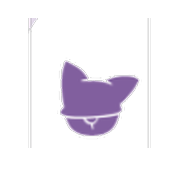
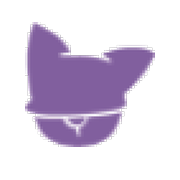
fix(brand): 标签狐狸头与 header 横版 wordmark 分离 (#10)
Header 恢复 logo-ty（狐狸+英文）原尺寸；浏览器标签与 apple-touch
单独使用用户提供的狐狸头 favicon，透明留白居中。

Changed region(s): [[0.1389, 0.0833, 0.8611, 0.8333]]

diff --git a/docs/js/app.offline.bundle.js b/docs/js/app.offline.bundle.js
@@ -1,6 +1,6 @@
 /* GENERATED FILE — source: docs/js/app.js + docs/data/content.json */
 globalThis.__AI_BRIEF_EMBEDDED_CONTENT__={"$schema":"./content.schema.json","version":"5.24.0","decisionSchemaVersion":2,"ssot":"web-decision-v5.24-rich-type","updated":"2026-07-30","meta":{"title":"天元 · AI 立项决策台","from":"","to":"","subtitle":"本场 Goal：选项目 · 定预算 · 定 Owner · 授权止损","logo":"assets/logo.png","brand":"#EBE6EF","roleLine":"决策稿 · 未批不开发 · 人在环","footerLeft":"本机会议草稿 · 复制到飞书 / 邮件并确认后留痕","footerRight":""},"tabs":[{"id":"t1","no":"1","title":"今日拍板","layout":"fill","blocks":[{"id":"t1.kpi","type":"kv-table","rows":[{"key":"总结","variant":"info","html":"各部门访谈已完成，建议把 <b>客服 Agent</b>、<b>供应链备案识别</b>作为 2 个有前置条件的立项候选；<b>未批不开发</b>"},{"key":"建议","variant":"ok","html":"两项均只做人机协同：客服由人确认后回复；备案由机器标差异、业务人员终审"},{"key":"请勾","variant":"info","html":"本场只拍 4 件事：① 选哪些项目；② A 启动 / B 认方向 / C 不立；③ 两项合计工具预算与止损线；④ Owner 具名并授权超线 <b>立即停扩</b>"},{"key":"钱","variant":"warn","html":"两项合计工具目标预算约 <b>7000 元</b>（不含 IT 人力）· <b>首月止损 5000 元</b> · <b>全期硬止损 10000 元</b>；10000 是必须停下复核的上限，不是默认预算"},{"key":"工期","variant":"default","html":"每个项目分别过门禁：<span class=\"flow-step\"><b>前置齐备</b>（业务同意 + Owner + 样本口径 + 费用）</span><span class=\"flow-arrow\" aria-hidden=\"true\">→</span><span class=\"flow-step\"><b>约 4 周内部演示</b></span><span class=\"flow-arrow\" aria-hidden=\"true\">→</span><span class=\"flow-step\"><b>约 4 周内部小试用</b></span> · 任一项不过，只停该项"}]},{"id":"t1.swap","type":"callout","variant":"brand","html":"<b>本场 Goal：</b>形成可执行的项目清单、预算上限、Owner 与停扩权；散会后可以直接留下责任记录"},{"id":"t1.scope","type":"callout","variant":"brand","html":"<b>本场不做：</b>承诺上线日 · 代业务定验收阈值 · 把 10000 元当默认预算 · 用页面勾选代替飞书/邮件确认"}]},{"id":"t2","no":"2","title":"项目取舍","layout":"stack","blocks":[{"id":"t2.chart","type":"mermaid","label":"主开：客服 Agent / 备案识别 · 后置：仓储 / 私域 · 不开：设计","compactItems":[{"label":"主开","text":"客服 Agent / 供应链备案识别","tone":"ok"},{"label":"产出","text":"可周报 / 可停损","tone":"info"},{"label":"后置","text":"仓储 / 私域","tone":"warn"},{"label":"不开","text":"设计","tone":"danger"}],"source":"flowchart TB\n  subgraph MAIN[本期主开]\n    K[客服 Agent<br/>统一答法 · 人确认]\n    S[供应链 备案识别<br/>机标差异 · 人终审]\n  end\n  subgraph HOLD[后置 · 有条件再开]\n    W[仓储<br/>先数据治理 / BI]\n    P[私域<br/>RPA + BI 优先]\n  end\n  subgraph NO[本期不开]\n    D[设计<br/>已自驱]\n  end\n  K --> OUT[可周报 · 可停损]\n  S --> OUT\n  style K fill:#D9F5D6,stroke:#2F9E55\n  style S fill:#D9F5D6,stroke:#2F9E55\n  style W fill:#FFF6D6,stroke:#D4A017\n  style P fill:#FFF6D6,stroke:#D4A017\n  style D fill:#FEE8E6,stroke:#E05555\n  style OUT fill:#E3F0FF,stroke:#3D87D6"},{"id":"t2.dept","type":"detail-card","title":"各部门：为什么开 · 为什么不开 · 原因","subtitle":"展开后保留可读决策缩略 · 详情区上下滑看 6 部门","defaultOpen":false,"headers":["部门","为什么开","为什么不开","原因"],"rows":[{"sector":"客服","whyOpen":"外包多、标准散；需要统一答法与可质培","whyNot":"不做自动代回、不首期嵌桌面","reason":"先立 Agent：检索推荐 + 人确认发出；标准能管、可停损"},{"sector":"供应链","whyOpen":"备案材料核验重、易漏、重复劳动多","whyNot":"不做对账第二看板、不做智能排产","reason":"先立备案识别：机器标差异 + 人终审；对账归 BI"},{"sector":"仓储","whyOpen":"—","whyNot":"有 AI 智能化助手需求，想基于历史数据做智能化、提醒化","reason":"先数据治理，BI 搞定后再智能化"},{"sector":"私域","whyOpen":"—","whyNot":"不抢两项主开资源","reason":"RPA 和 BI 的需求大"},{"sector":"设计","whyOpen":"—","whyNot":"已自驱用 AI 出图","reason":"本期不开，不占 FDE 人日"},{"sector":"对账/数仓","whyOpen":"—","whyNot":"不宜再建第二套看板","reason":"归 BI；需要时 FDE 交 1 页需求摘要"}]}]},{"id":"t3","no":"3","title":"交付边界","layout":"fill","blocks":[{"id":"t3.chart","type":"do-dont","label":"两项候选 · 共同交付边界","dontTitle":"不做","doTitle":"做","dont":["客服自动代回客户","备案自动过审或替人终审","重建 BI 对账看板","未定义样本口径就承诺准确率"],"do":["客服：统一知识库 + 检索推荐 + 人确认发出","备案：材料差异标注 + 证据定位 + 人终审","每项独立 Owner、样本、门禁和停扩记录","只收集完成评测所必需的数据，并保留人工复核"]}]},{"id":"t4","no":"4","title":"阶段门禁","layout":"split","blocks":[{"id":"t4.chart","type":"mermaid","slot":"main","label":"未齐不开发 · 约 4 周演示 + 约 4 周试用 · 不过即停扩","source":"flowchart LR\n  S0[① 先齐前置<br/>未齐=不开开发] --> S1[② 约4周<br/>内部演示]\n  S1 -->|过| S2[③ 约4周<br/>内部小试用]\n  S1 -->|不过| BACK[回前置<br/>停扩重测]\n  S2 -->|过| OK[可汇报<br/>不代回客户]\n  S2 -->|不过| STOP[停扩<br/>不上报采用]\n  style S0 fill:#FFF6D6,stroke:#D4A017,color:#111\n  style BACK fill:#FEE8E6,stroke:#E05555,color:#111\n  style S1 fill:#E3F0FF,stroke:#3D87D6,color:#111\n  style S2 fill:#E3F0FF,stroke:#3D87D6,color:#111\n  style OK fill:#D9F5D6,stroke:#2F9E55,color:#111\n  style STOP fill:#FEE8E6,stroke:#E05555,color:#111"},{"id":"t4.dod","type":"gate-table","slot":"side","headers":["阶段","过关标准"],"rows":[{"gate":"① 前置","html":"<div class='line'>每个项目分别齐备才开开发：</div><div class='line'>· <b>业务书面同意</b>（口头 ≤3 工作日补）</div><div class='line'>· <b>Owner + 备用人具名</b></div><div class='line'>· <b>样本、判定口径、数据边界确认</b></div><div class='line'>· 两项合计预算与止损确认（7000 / 5k / 10k）</div>"},{"gate":"② 演示","html":"<div class='line'>约 4 周可内部演示：</div><div class='line'>· 客服：话术可检索；抽 20 题，≥14 题过</div><div class='line'>· 备案：差异项可定位到证据；阈值由业务样本签字后锁定</div><div class='line'>· <b>0 次自动代回 / 0 次自动过审</b></div><div class='line'>· 哪项不过，只停哪项并回前置</div>"},{"gate":"③ 试用","html":"<div class='line'>约 4 周内部小试用：</div><div class='line'>· 客服：≥3 坐席连续 2 周，有使用与反馈</div><div class='line'>· 备案：至少 1 个真实批次跟跑，业务人员终审</div><div class='line'>· 仍 <b>0 自动代回 / 0 自动过审</b> · 结果可追溯</div><div class='line'>· Owner 缺位或样本变更 → 该项重测</div>"}]}]},{"id":"t5","no":"5","title":"预算止损","layout":"split","blocks":[{"id":"t5.chart","type":"mermaid","slot":"main","label":"7000 目标 · 5000 首月 · 10000 硬止损","source":"flowchart TB\n  Q{您怎么批}\n  Q --> A[A 立 · 同意启动<br/>前置齐了再开发]\n  Q --> B[B 立 · 先认方向<br/>费用批完再动手]\n  Q --> C[C 不立<br/>写入周报说明]\n  A --> A1[按止损线花钱<br/>超线即停]\n  B --> B1[不开发不烧工具费<br/>批完再开工]\n  C --> C1[不立项 · 不排期]\n  style A fill:#D9F5D6,stroke:#2F9E55,color:#111\n  style B fill:#E3F0FF,stroke:#3D87D6,color:#111\n  style C fill:#FEE8E6,stroke:#E05555,color:#111\n  style A1 fill:#D9F5D6,stroke:#2F9E55,color:#111\n  style B1 fill:#E3F0FF,stroke:#3D87D6,color:#111\n  style C1 fill:#FEE8E6,stroke:#E05555,color:#111\n"},{"id":"t5.money","type":"kv-table","slot":"side","keyWidth":"wide","rows":[{"key":"花什么钱","html":"两项合计工具目标预算约 <b>7000 元</b>：约 3 个月 Codex AI 账户 + OCR 文档识别账户 + 云服务器；<b>不含 IT 人力</b>"},{"key":"止损线","html":"<b>首月 5000 元</b> · <b>全期硬止损 10000 元</b>。7000 是目标预算；10000 是必须停止并复核的上限，不是可直接支出的预算"},{"key":"会后 48 小时","html":"会后 <b>2 个自然日内</b>（逢节假日顺延到下个工作日）把责任人钉死、把要开通的账户清单钉死；到点还没对齐 → <b>先不开发、不烧工具费</b>，只做书面准备"},{"key":"超线怎么办","html":"当场授权：一超止损线，执行方 <b>立即停扩</b>，飞书/邮件同步您；是否加预算由您重新确认"},{"key":"人工怎么算","html":"<b>IT 人工成本不算进上述 7000</b>；工具费与人日在周报里分开写，避免混在一起对不上账"}]}]},{"id":"t6","no":"6","title":"当场确认","layout":"fill","blocks":[{"id":"t6.check","type":"check-table","headers":["#","本场请您确认","勾选"],"rows":[{"no":"1A","checked":false,"html":"<b>客服 Agent</b>：独立选择本场路径","projectBlurb":"统一知识库 + 检索推荐 + 人确认发出 · 不自动代回","projectId":"agent","projectLabel":"客服 Agent","pathOptions":["A","B","C"],"pathValue":"","tier":"must","rowId":"t6-agent-path"},{"no":"1B","checked":false,"html":"<b>供应链备案识别</b>：独立选择本场路径","projectBlurb":"材料差异标注 + 证据定位 + 人终审 · 不代过审","projectId":"filing","projectLabel":"供应链备案识别","pathOptions":["A","B","C"],"pathValue":"","tier":"must","rowId":"t6-filing-path"},{"no":"2","checked":false,"html":"共享工具费用与止损（A / B 至少一项时必确认，可改）","kind":"fee","feeFields":{"total":"7000","monthCap":"5000","allCap":"10000","otherNote":""},"tier":"must","rowId":"t6-fee"},{"no":"3A","checked":false,"html":"<b>客服 Agent Owner</b>（选 A / B 时至少 1 人 · 业务侧具名）","kind":"owner","projectId":"agent","projectLabel":"客服 Agent","owners":[{"name":"","dept":"","scope":""},{"name":"","dept":"","scope":""},{"name":"","dept":"","scope":""}],"tier":"must","rowId":"t6-agent-owner"},{"no":"3B","checked":false,"html":"<b>供应链备案识别 Owner</b>（选 A / B 时至少 1 人 · 业务侧具名）","kind":"owner","projectId":"filing","projectLabel":"供应链备案识别","owners":[{"name":"","dept":"","scope":""},{"name":"","dept":"","scope":""},{"name":"","dept":"","scope":""}],"tier":"must","rowId":"t6-filing-owner"},{"no":"4","checked":false,"html":"会后 2 天钉死账户清单与对接人（未齐 → 不开发、不烧工具费）","tier":"later","rowId":"t6-accounts"},{"no":"5","checked":false,"html":"授权超止损 <b>立即停扩</b>（飞书/邮件同步您 · A/B 必勾）","kind":"stop-authority","tier":"must","rowId":"t6-stop-authority"},{"no":"6","checked":false,"html":"书面「出问题怎么办」齐全（人在环、回退、停扩责任）","tier":"later","rowId":"t6-incident-plan"}]},{"id":"t6.gate","type":"callout","variant":"warn","html":"<b>散会最低：</b>两项目分别选 A / B / C；每个 A / B 项目补齐自己的 Owner，并共同确认费用止损与超线停扩。全部 C 时无需填费用和 Owner。"},{"id":"t6.bound","type":"callout","variant":"brand","html":"<b>留痕：</b>可复制结论或下载带 SHA-256 哈希的 JSON 凭证；两者仍是本机草稿，贴入飞书/邮件并确认后才生效"}]},{"id":"t7","no":"7","title":"会后责任","layout":"fill","blocks":[{"id":"t7.timeline","type":"gate-table","headers":["时间","要完成什么"],"rows":[{"gate":"会后 2 天","html":"<div class='line'>钉死账户清单 + 对接人</div><div class='line'>未齐 → <b>不开发、不烧工具费</b></div>"},{"gate":"会后 3 天","html":"<div class='line'>业务 <b>书面同意</b>补齐</div><div class='line'>未补 → 只记意向，不排开发</div>"},{"gate":"每周一行","html":"<div class='line'>前置 / 工具费 / 止损线 / 人力是否被挤占</div>"},{"gate":"一超止损","html":"<div class='line'>执行方 <b>立即停扩</b> · 飞书/邮件同步您</div>"}]},{"id":"t7.path","type":"gate-table","headers":["路径","会后怎么走"],"rows":[{"gate":"A 启动","html":"<div class='line'>前置齐了再开发 · 按止损线开通 · 超线即停</div>"},{"gate":"B 方向","html":"<div class='line'>费用批完前不开发、不烧工具费</div>"},{"gate":"C 不立","html":"<div class='line'>「不立+原因」进周报 · 不排期</div>"}]},{"id":"t7.pm","type":"callout","variant":"ok","html":"<b>项目经理盯 4 件事：</b> ① 前置是否齐　② 钱是否在线内 ③ 负责人是否在位　④ 该停有没有停 内容 → 业务负责人；工具/停扩 → 执行方并同步您"}]}],"publishStamp":"1785348966720"};
[2 lines of base64/hex data omitted]
 (()=>{var bn=Object.freeze({A:"A 同意启动",B:"B 先认方向",C:"C 不立"}),ia=1;function wt(a){return String(a??"").trim()}function Cn(a){return wt(a).replace(/<br\s*\/?>/gi," ").replace(/<[^>]+>/g,"").replace(/&nbsp;/gi," ").replace(/&amp;/gi,"&").replace(/&lt;/gi,"<").replace(/&gt;/gi,">").replace(/\s+/g," ").trim()}function mn(a){let i=wt(a).replace(/[,\s￥¥元]/g,"");if(!i)return NaN;let u=Number(i);return Number.isFinite(u)?u:NaN}function tn(a){return a?Array.isArray(a.owners)?a.owners.filter(i=>i&&wt(i.name)):a.ownerFields&&wt(a.ownerFields.name)?[a.ownerFields]:[]:[]}function la(a){return wt(a.projectLabel||a.projectId||Cn(a.html)||a.no)}function ca(a){if(!a||!a.feeFields)return{valid:!1,reason:"未设置费用与止损"};let i=a.feeFields,u=mn(i.total),b=mn(i.monthCap),C=mn(i.allCap);return[u,b,C].every(m=>Number.isFinite(m)&&m>0)?b>C?{valid:!1,reason:"首月止损不能高于全期止损"}:u>C?{valid:!1,reason:"目标预算不能高于全期止损"}:{valid:!0,total:u,monthCap:b,allCap:C}:{valid:!1,reason:"费用或止损线不是有效正数"}}function je(a){let i=Array.isArray(a&&a.rows)?a.rows:[],b=i.filter(O=>O&&O.projectId&&Array.isArray(O.pathOptions)&&O.pathOptions.length).map(O=>({projectId:wt(O.projectId),projectLabel:la(O),path:wt(O.pathValue),pathLabel:bn[O.pathValue]||"未选",row:O})),C=b.filter(O=>O.path==="A"||O.path==="B"),m=[];b.forEach(O=>{O.path||m.push(O.projectLabel+"路径")}),b.length||m.push("项目级路径");let h=i.find(O=>O&&(O.kind==="fee"||O.feeFields)),j=i.find(O=>O&&(O.kind==="stop-authority"||String(O.no)==="5")),v=i.filter(O=>O&&(O.kind==="owner"||Array.isArray(O.owners)||O.ownerFields));if(C.length){C.forEach(lt=>{let g=v.find(S=>wt(S.projectId)===lt.projectId);(!g||!g.checked||!tn(g).length)&&m.push(lt.projectLabel+" Owner")});let O=ca(h);!h||!h.checked?m.push("费用与止损确认"):O.valid||m.push(O.reason),(!j||!j.checked)&&m.push("超线停扩授权")}let R=i.filter(O=>O&&(O.checked||Array.isArray(O.pathOptions)&&O.pathValue)).length,k=b.filter(O=>O.path),G=b.length>0&&k.length===b.length,F=G&&b.every(O=>O.path==="C"),X=G&&m.length===0,L=b.length?b.map(O=>`${O.projectLabel} ${O.path||"未选"}`).join(" · "):"项目路径未配置";return{rows:i,total:i.length,done:R,decisions:b,activeDecisions:C,ownerRows:v,feeRow:h,stopRow:j,missing:[...new Set(m)],allPathsChosen:G,allC:F,isMinOk:X,path:b.length===1?b[0].path:"",pathLab:L}}function un(a){return a===null||typeof a!="object"?JSON.stringify(a):Array.isArray(a)?`[${a.map(un).join(",")}]`:`{${Object.keys(a).sort().map(u=>`${JSON.stringify(u)}:${un(a[u])}`).join(",")}}`}function re(a,i){return a>>>i|a<<32-i}function fn(a){let i=new TextEncoder().encode(String(a)),u=i.length*8,b=Math.ceil((i.length+9)/64)*64,C=new Uint8Array(b);C.set(i),C[i.length]=128;let m=new DataView(C.buffer);m.setUint32(b-8,Math.floor(u/4294967296),!1),m.setUint32(b-4,u>>>0,!1);let h=new Uint32Array([1779033703,3144134277,1013904242,2773480762,1359893119,2600822924,528734635,1541459225]),j=new Uint32Array([1116352408,1899447441,3049323471,3921009573,961987163,1508970993,2453635748,2870763221,3624381080,310598401,607225278,1426881987,1925078388,2162078206,2614888103,3248222580,3835390401,4022224774,264347078,604807628,770255983,1249150122,1555081692,1996064986,2554220882,2821834349,2952996808,3210313671,3336571891,3584528711,113926993,338241895,666307205,773529912,1294757372,1396182291,1695183700,1986661051,2177026350,2456956037,2730485921,2820302411,3259730800,3345764771,3516065817,3600352804,4094571909,275423344,430227734,506948616,659060556,883997877,958139571,1322822218,1537002063,1747873779,1955562222,2024104815,2227730452,2361852424,2428436474,2756734187,3204031479,3329325298]),v=new Uint32Array(64);for(let R=0;R<b;R+=64){for(let S=0;S<16;S+=1)v[S]=m.getUint32(R+S*4,!1);for(let S=16;S<64;S+=1){let N=v[S-15],q=v[S-2],ct=re(N,7)^re(N,18)^N>>>3,_=re(q,17)^re(q,19)^q>>>10;v[S]=v[S-16]+ct+v[S-7]+_>>>0}let[k,G,F,X,L,O,lt,g]=h;for(let S=0;S<64;S+=1){let N=re(L,6)^re(L,11)^re(L,25),q=L&O^~L&lt,ct=g+N+q+j[S]+v[S]>>>0,_=re(k,2)^re(k,13)^re(k,22),B=k&G^k&F^G&F,D=_+B>>>0;g=lt,lt=O,O=L,L=X+ct>>>0,X=F,F=G,G=k,k=ct+D>>>0}h[0]=h[0]+k>>>0,h[1]=h[1]+G>>>0,h[2]=h[2]+F>>>0,h[3]=h[3]+X>>>0,h[4]=h[4]+L>>>0,h[5]=h[5]+O>>>0,h[6]=h[6]+lt>>>0,h[7]=h[7]+g>>>0}return[...h].map(R=>R.toString(16).padStart(8,"0")).join("")}function On(a){return tn(a).map(i=>({name:wt(i.name),dept:wt(i.dept),scope:wt(i.scope||i.backup)}))}function gn(a,i={}){let u=je(a),b=i.generatedAt||new Date().toISOString(),C={};u.ownerRows.forEach(v=>{v.projectId&&(C[v.projectId]=On(v))});let m=u.feeRow&&u.feeRow.feeFields,h={receiptVersion:ia,kind:"ai-project-decision-draft",generatedAt:b,contentVersion:wt(i.contentVersion),decisionSchemaVersion:Number(i.decisionSchemaVersion||1),sourceStamp:wt(i.sourceStamp),localDraft:!0,projects:u.decisions.map(v=>({projectId:v.projectId,projectLabel:v.projectLabel,path:v.path||null,pathLabel:v.path?bn[v.path]||v.path:null,owners:C[v.projectId]||[]})),fees:m?{total:wt(m.total),monthCap:wt(m.monthCap),allCap:wt(m.allCap),otherNote:wt(m.otherNote),confirmed:!!u.feeRow.checked}:null,stopAuthorityConfirmed:!!(u.stopRow&&u.stopRow.checked),minimumReady:u.isMinOk,missing:u.missing,acknowledgements:u.rows.filter(v=>!v.projectId&&!v.feeFields).map(v=>({rowId:wt(v.rowId),no:wt(v.no),label:Cn(v.html),checked:!!v.checked}))},j=fn(un(h));return{...h,integrity:{algorithm:"SHA-256",canonicalization:"sorted-key-json-v1",digest:j}}}function In(a){if(!a||!a.integrity||a.integrity.algorithm!=="SHA-256")return!1;let i={...a},u=i.integrity.digest;return delete i.integrity,fn(un(i))===u}function Rn(a,i={}){let u=je(a),b=i.receipt||gn(a,i),C=new Date(b.generatedAt),h=["【AI 赋能立项 · 本场结论】",`时间：${Number.isNaN(C.getTime())?b.generatedAt:C.toLocaleString("zh-CN",{hour12:!1})}`];u.decisions.forEach(k=>{h.push(`项目：${k.projectLabel} · 路径：${k.path?bn[k.path]||k.path:"未选"}`);let G=u.ownerRows.find(X=>wt(X.projectId)===k.projectId),F=On(G);h.push(`Owner：${F.length?F.map(X=>`${X.name}${X.dept?" / "+X.dept:""}${X.scope?" / "+X.scope:""}`).join("；"):"（未填）"}`)}),b.fees&&h.push(`费用口径：目标 ${b.fees.total||"—"} 元 · 首月止损 ${b.fees.monthCap||"—"} 元 · 全期止损 ${b.fees.allCap||"—"} 元${b.fees.otherNote?" · "+b.fees.otherNote:""}`),h.push(`超线停扩授权：${b.stopAuthorityConfirmed?"已确认":"未确认"}`),h.push(u.isMinOk?"散会最低要求：已齐":`散会最低要求：未齐 · 还缺 ${u.missing.join(" · ")||"项目级路径"}`);let j=u.decisions.filter(k=>k.path==="A"),v=u.decisions.filter(k=>k.path==="B"),R=u.decisions.filter(k=>k.path==="C");return j.length&&h.push(`A 路径会后：${j.map(k=>k.projectLabel).join("、")} 按门禁与止损线启动`),v.length&&h.push(`B 路径会后：${v.map(k=>k.projectLabel).join("、")} 只补前置，未批不开发`),R.length&&h.push(`C 路径会后：${R.map(k=>k.projectLabel).join("、")} 记录不立原因，不排期`),h.push("本场边界：不承诺立刻上线 · 不自动代回客户 · 金额以确认的止损线为准"),h.push(`凭证哈希（SHA-256）：${b.integrity.digest}`),h.push("— 本机会议草稿：贴入飞书 / 邮件并由相关人确认后才构成正式留痕 —"),h.join(`
 `)}function $n(a,i){(i==null||i>a.length)&&(i=a.length);for(var u=0,b=Array(i);u<i;u++)b[u]=a[u];return b}function da(a){if(Array.isArray(a))return a}function ua(a,i){var u=a==null?null:typeof Symbol<"u"&&a[Symbol.iterator]||a["@@iterator"];if(u!=null){var b,C,m,h,j=[],v=!0,R=!1;try{if(m=(u=u.call(a)).next,i!==0)for(;!(v=(b=m.call(u)).done)&&(j.push(b.value),j.length!==i);v=!0);}catch(k){R=!0,C=k}finally{try{if(!v&&u.return!=null&&(h=u.return(),Object(h)!==h))return}finally{if(R)throw C}}return j}}function fa(){throw new TypeError(`Invalid attempt to destructure non-iterable instance.
 In order to be iterable, non-array objects must have a [Symbol.iterator]() method.`)}function pa(a,i){return da(a)||ua(a,i)||ha(a,i)||fa()}function ha(a,i){if(a){if(typeof a=="string")return $n(a,i);var u={}.toString.call(a).slice(8,-1);return u==="Object"&&a.constructor&&(u=a.constructor.name),u==="Map"||u==="Set"?Array.from(a):u==="Arguments"||/^(?:Ui|I)nt(?:8|16|32)(?:Clamped)?Array$/.test(u)?$n(a,i):void 0}}var Yn=Object.entries,Mn=Object.setPrototypeOf,ma=Object.isFrozen,ba=Object.getPrototypeOf,ga=Object.getOwnPropertyDescriptor,It=Object.freeze,Rt=Object.seal,He=Object.create,Xn=typeof Reflect<"u"&&Reflect,Sn=Xn.apply,vn=Xn.construct;It||(It=function(i){return i});Rt||(Rt=function(i){return i});Sn||(Sn=function(i,u){for(var b=arguments.length,C=new Array(b>2?b-2:0),m=2;m<b;m++)C[m-2]=arguments[m];return i.apply(u,C)});vn||(vn=function(i){for(var u=arguments.length,b=new Array(u>1?u-1:0),C=1;C<u;C++)b[C-1]=arguments[C];return new i(...b)});var ze=Et(Array.prototype.forEach),ya=Et(Array.prototype.lastIndexOf),Nn=Et(Array.prototype.pop),Be=Et(Array.prototype.push),wa=Et(Array.prototype.splice),ye=Array.isArray,an=Et(String.prototype.toLowerCase),yn=Et(String.prototype.toString),Dn=Et(String.prototype.match),en=Et(String.prototype.replace),Pn=Et(String.prototype.indexOf),Ea=Et(String.prototype.trim),Aa=Et(Number.prototype.toString),Ta=Et(Boolean.prototype.toString),Fn=typeof BigInt>"u"?null:Et(BigInt.prototype.toString),jn=typeof Symbol>"u"?null:Et(Symbol.prototype.toString),Lt=Et(Object.prototype.hasOwnProperty),nn=Et(Object.prototype.toString),kt=Et(RegExp.prototype.test),Ce=Sa(TypeError);function Et(a){return function(i){i instanceof RegExp&&(i.lastIndex=0);for(var u=arguments.length,b=new Array(u>1?u-1:0),C=1;C<u;C++)b[C-1]=arguments[C];return Sn(a,i,b)}}function Sa(a){return function(){for(var i=arguments.length,u=new Array(i),b=0;b<i;b++)u[b]=arguments[b];return vn(a,u)}}function nt(a,i){let u=arguments.length>2&&arguments[2]!==void 0?arguments[2]:an;if(Mn&&Mn(a,null),!ye(i))return a;let b=i.length;for(;b--;){let C=i[b];if(typeof C=="string"){let m=u(C);m!==C&&(ma(i)||(i[b]=m),C=m)}a[C]=!0}return a}function va(a){for(let i=0;i<a.length;i++)Lt(a,i)||(a[i]=null);return a}function Pt(a){let i=He(null);for(let b of Yn(a)){var u=pa(b,2);let C=u[0],m=u[1];Lt(a,C)&&(ye(m)?i[C]=va(m):m&&typeof m=="object"&&m.constructor===Object?i[C]=Pt(m):i[C]=m)}return i}function xa(a){switch(typeof a){case"string":return a;case"number":return Aa(a);case"boolean":return Ta(a);case"bigint":return Fn?Fn(a):"0";case"symbol":return jn?jn(a):"Symbol()";case"undefined":return nn(a);case"function":case"object":{if(a===null)return nn(a);let i=a,u=ie(i,"toString");if(typeof u=="function"){let b=u(i);return typeof b=="string"?b:nn(b)}return nn(a)}default:return nn(a)}}function ie(a,i){for(;a!==null;){let b=ga(a,i);if(b){if(b.get)return Et(b.get);if(typeof b.value=="function")return Et(b.value)}a=ba(a)}function u(){return null}return u}function _a(a){try{return kt(a,""),!0}catch{return!1}}var zn=It(["a","abbr","acronym","address","area","article","aside","audio","b","bdi","bdo","big","blink","blockquote","body","br","button","canvas","caption","center","cite","code","col","colgroup","content","data","datalist","dd","decorator","del","details","dfn","dialog","dir","div","dl","dt","element","em","fieldset","figcaption","figure","font","footer","form","h1","h2","h3","h4","h5","h6","head","header","hgroup","hr","html","i","img","input","ins","kbd","label","legend","li","main","map","mark","marquee","menu","menuitem","meter","nav","nobr","ol","optgroup","option","output","p","picture","pre","progress","q","rp","rt","ruby","s","samp","search","section","select","shadow","slot","small","source","spacer","span","strike","strong","style","sub","summary","sup","table","tbody","td","template","textarea","tfoot","th","thead","time","tr","track","tt","u","ul","var","video","wbr"]),wn=It(["svg","a","altglyph","altglyphdef","altglyphitem","animatecolor","animatemotion","animatetransform","circle","clippath","defs","desc","ellipse","enterkeyhint","exportparts","filter","font","g","glyph","glyphref","hkern","image","inputmode","line","lineargradient","marker","mask","metadata","mpath","part","path","pattern","polygon","polyline","radialgradient","rect","stop","style","switch","symbol","text","textpath","title","tref","tspan","view","vkern"]),En=It(["feBlend","feColorMatrix","feComponentTransfer","feComposite","feConvolveMatrix","feDiffuseLighting","feDisplacementMap","feDistantLight","feDropShadow","feFlood","feFuncA","feFuncB","feFuncG","feFuncR","feGaussianBlur","feImage","feMerge","feMergeNode","feMorphology","feOffset","fePointLight","feSpecularLighting","feSpotLight","feTile","feTurbulence"]),ka=It(["animate","color-profile","cursor","discard","font-face","font-face-format","font-face-name","font-face-src","font-face-uri","foreignobject","hatch","hatchpath","mesh","meshgradient","meshpatch","meshrow","missing-glyph","script","set","solidcolor","unknown","use"]),An=It(["math","menclose","merror","mfenced","mfrac","mglyph","mi","mlabeledtr","mmultiscripts","mn","mo","mover","mpadded","mphantom","mroot","mrow","ms","mspace","msqrt","mstyle","msub","msup","msubsup","mtable","mtd","mtext","mtr","munder","munderover","mprescripts"]),La=It(["maction","maligngroup","malignmark","mlongdiv","mscarries","mscarry","msgroup","mstack","msline","msrow","semantics","annotation","annotation-xml","mprescripts","none"]),Bn=It(["#text"]),Hn=It(["accept","action","align","alt","autocapitalize","autocomplete","autopictureinpicture","autoplay","background","bgcolor","border","capture","cellpadding","cellspacing","checked","cite","class","clear","color","cols","colspan","command","commandfor","controls","controlslist","coords","crossorigin","datetime","decoding","default","dir","disabled","disablepictureinpicture","disableremoteplayback","download","draggable","enctype","enterkeyhint","exportparts","face","for","headers","height","hidden","high","href","hreflang","id","inert","inputmode","integrity","ismap","kind","label","lang","list","loading","loop","low","max","maxlength","media","method","min","minlength","multiple","muted","name","nonce","noshade","novalidate","nowrap","open","optimum","part","pattern","placeholder","playsinline","popover","popovertarget","popovertargetaction","poster","preload","pubdate","radiogroup","readonly","rel","required","rev","reversed","role","rows","rowspan","spellcheck","scope","selected","shape","size","sizes","slot","span","srclang","start","src","srcset","step","style","summary","tabindex","title","translate","type","usemap","valign","value","width","wrap","xmlns"]),Tn=It(["accent-height","accumulate","additive","alignment-baseline","amplitude","ascent","attributename","attributetype","azimuth","basefrequency","baseline-shift","begin","bias","by","class","clip","clippathunits","clip-path","clip-rule","color","color-interpolation","color-interpolation-filters","color-profile","color-rendering","cx","cy","d","dx","dy","diffuseconstant","direction","display","divisor","dominant-baseline","dur","edgemode","elevation","end","exponent","fill","fill-opacity","fill-rule","filter","filterunits","flood-color","flood-opacity","font-family","font-size","font-size-adjust","font-stretch","font-style","font-variant","font-weight","fx","fy","g1","g2","glyph-name","glyphref","gradientunits","gradienttransform","height","href","id","image-rendering","in","in2","intercept","k","k1","k2","k3","k4","kerning","keypoints","keysplines","keytimes","lang","lengthadjust","letter-spacing","kernelmatrix","kernelunitlength","lighting-color","local","marker-end","marker-mid","marker-start","markerheight","markerunits","markerwidth","maskcontentunits","maskunits","max","mask","mask-type","media","method","mode","min","name","numoctaves","offset","operator","opacity","order","orient","orientation","origin","overflow","paint-order","path","pathlength","patterncontentunits","patterntransform","patternunits","points","preservealpha","preserveaspectratio","primitiveunits","r","rx","ry","radius","refx","refy","repeatcount","repeatdur","restart","result","rotate","scale","seed","shape-rendering","slope","specularconstant","specularexponent","spreadmethod","startoffset","stddeviation","stitchtiles","stop-color","stop-opacity","stroke-dasharray","stroke-dashoffset","stroke-linecap","stroke-linejoin","stroke-miterlimit","stroke-opacity","stroke","stroke-width","style","surfacescale","systemlanguage","tabindex","tablevalues","targetx","targety","transform","transform-origin","text-anchor","text-decoration","text-orientation","text-rendering","textlength","type","u1","u2","unicode","values","viewbox","visibility","version","vert-adv-y","vert-origin-x","vert-origin-y","width","word-spacing","wrap","writing-mode","xchannelselector","ychannelselector","x","x1","x2","xmlns","y","y1","y2","z","zoomandpan"]),Un=It(["accent","accentunder","align","bevelled","close","columnalign","columnlines","columnspacing","columnspan","denomalign","depth","dir","display","displaystyle","encoding","fence","frame","height","href","id","largeop","length","linethickness","lquote","lspace","mathbackground","mathcolor","mathsize","mathvariant","maxsize","minsize","movablelimits","notation","numalign","open","rowalign","rowlines","rowspacing","rowspan","rspace","rquote","scriptlevel","scriptminsize","scriptsizemultiplier","selection","separator","separators","stretchy","subscriptshift","supscriptshift","symmetric","voffset","width","xmlns"]),pn=It(["xlink:href","xml:id","xlink:title","xml:space","xmlns:xlink"]),Ca=Rt(/{{[\w\W]*|^[\w\W]*}}/g),Oa=Rt(/<%[\w\W]*|^[\w\W]*%>/g),Ia=Rt(/\${[\w\W]*/g),Ra=Rt(/^data-[\-\w.\u00B7-\uFFFF]+$/),$a=Rt(/^aria-[\-\w]+$/),Vn=Rt(/^(?:(?:(?:f|ht)tps?|mailto|tel|callto|sms|cid|xmpp|matrix):|[^a-z]|[a-z+.\-]+(?:[^a-z+.\-:]|$))/i),Ma=Rt(/^(?:\w+script|data):/i),Na=Rt(/[\u0000-\u0020\u00A0\u1680\u180E\u2000-\u2029\u205F\u3000]/g),Da=Rt(/^html$/i),Pa=Rt(/^[a-z][.\w]*(-[.\w]+)+$/i),qn=Rt(/<[/\w!]/g),Wn=Rt(/<[/\w]/g),Fa=Rt(/<\/no(script|embed|frames)/i),ja=Rt(/\/>/i),Vt={element:1,attribute:2,text:3,cdataSection:4,entityReference:5,entityNode:6,processingInstruction:7,comment:8,document:9,documentType:10,documentFragment:11,notation:12},za=function(){return typeof window>"u"?null:window},Ba=function(i,u){if(typeof i!="object"||typeof i.createPolicy!="function")return null;let b=null,C="data-tt-policy-suffix";u&&u.hasAttribute(C)&&(b=u.getAttribute(C));let m="dompurify"+(b?"#"+b:"");try{return i.createPolicy(m,{createHTML(h){return h},createScriptURL(h){return h}})}catch{return console.warn("TrustedTypes policy "+m+" could not be created."),null}},Gn=function(){return{afterSanitizeAttributes:[],afterSanitizeElements:[],afterSanitizeShadowDOM:[],beforeSanitizeAttributes:[],beforeSanitizeElements:[],beforeSanitizeShadowDOM:[],uponSanitizeAttribute:[],uponSanitizeElement:[],uponSanitizeShadowNode:[]}},ge=function(i,u,b,C){return Lt(i,u)&&ye(i[u])?nt(C.base?Pt(C.base):{},i[u],C.transform):b};function Jn(){let a=arguments.length>0&&arguments[0]!==void 0?arguments[0]:za(),i=T=>Jn(T);if(i.version="3.4.12",i.removed=[],!a||!a.document||a.document.nodeType!==Vt.document||!a.Element)return i.isSupported=!1,i;let u=a.document,b=u,C=b.currentScript;a.DocumentFragment;let m=a.HTMLTemplateElement,h=a.Node,j=a.Element,v=a.NodeFilter,R=a.NamedNodeMap;R===void 0&&(a.NamedNodeMap||a.MozNamedAttrMap),a.HTMLFormElement;let k=a.DOMParser,G=a.trustedTypes,F=j.prototype,X=ie(F,"cloneNode"),L=ie(F,"remove"),O=ie(F,"nextSibling"),lt=ie(F,"childNodes"),g=ie(F,"parentNode"),S=ie(F,"shadowRoot"),N=ie(F,"attributes"),q=h&&h.prototype?ie(h.prototype,"nodeType"):null,ct=h&&h.prototype?ie(h.prototype,"nodeName"):null;if(typeof m=="function"){let T=u.createElement("template");T.content&&T.content.ownerDocument&&(u=T.content.ownerDocument)}let _,B="",D,H=!1,Z=0,W=function(){if(Z>0)throw Ce('A configured TRUSTED_TYPES_POLICY callback (createHTML or createScriptURL) must not call DOMPurify.sanitize, as that causes infinite recursion. Do not pass a policy whose callbacks wrap DOMPurify as TRUSTED_TYPES_POLICY; see the "DOMPurify and Trusted Types" section of the README.')},Q=function(n){W(),Z++;try{return _.createHTML(n)}finally{Z--}},ft=function(n){W(),Z++;try{return _.createScriptURL(n)}finally{Z--}},gt=function(){return H||(D=Ba(G,C),H=!0),D},yt=u,M=yt.implementation,U=yt.createNodeIterator,y=yt.createDocumentFragment,Y=yt.getElementsByTagName,Tt=b.importNode,dt=Gn();i.isSupported=typeof Yn=="function"&&typeof g=="function"&&M&&M.createHTMLDocument!==void 0;let Qt=Ca,me=Oa,we=Ia,Oe=Ra,Ie=$a,I=Ma,J=Na,te=Pa,Ft=Vn,rt=null,Re=nt({},[...zn,...wn,...En,...An,...Bn]),pt=null,Ve=nt({},[...Hn,...Tn,...Un,...pn]),ht=Object.seal(He(null,{tagNameCheck:{writable:!0,configurable:!1,enumerable:!0,value:null},attributeNameCheck:{writable:!0,configurable:!1,enumerable:!0,value:null},allowCustomizedBuiltInElements:{writable:!0,configurable:!1,enumerable:!0,value:!1}})),Ee=null,cn=null,ee=Object.seal(He(null,{tagCheck:{writable:!0,configurable:!1,enumerable:!0,value:null},attributeCheck:{writable:!0,configurable:!1,enumerable:!0,value:null}})),qe=!0,We=!0,ne=!1,ae=!0,Yt=!1,Bt=!0,le=!1,Ge=!1,Ye=null,$e=null,Ct=!1,Xt=!1,oe=!1,Jt=!1,be=!0,Me=!1,Ae="user-content-",Ne=!0,Te=!1,St={},Ht=null,De=nt({},["annotation-xml","audio","colgroup","desc","foreignobject","head","iframe","math","mi","mn","mo","ms","mtext","noembed","noframes","noscript","plaintext","script","selectedcontent","style","svg","template","thead","title","video","xmp"]),Xe=null,Pe=nt({},["audio","video","img","source","image","track"]),Je=null,dn=nt({},["alt","class","for","id","label","name","pattern","placeholder","role","summary","title","value","style","xmlns"]),Fe="http://www.w3.org/1998/Math/MathML",ce="http://www.w3.org/2000/svg",qt="http://www.w3.org/1999/xhtml",Ut=qt,Se=!1,ve=null,Ke=nt({},[Fe,ce,qt],yn),mt=It(["mi","mo","mn","ms","mtext"]),Ze=nt({},mt),e=It(["annotation-xml"]),t=nt({},e),s=nt({},["title","style","font","a","script"]),o=null,r=["application/xhtml+xml","text/html"],c="text/html",l=null,p=null,E=u.createElement("form"),A=function(n){return n instanceof RegExp||n instanceof Function},f=function(){let n=arguments.length>0&&arguments[0]!==void 0?arguments[0]:{};if(p&&p===n)return;(!n||typeof n!="object")&&(n={}),n=Pt(n),o=r.indexOf(n.PARSER_MEDIA_TYPE)===-1?c:n.PARSER_MEDIA_TYPE,l=o==="application/xhtml+xml"?yn:an,rt=ge(n,"ALLOWED_TAGS",Re,{transform:l}),pt=ge(n,"ALLOWED_ATTR",Ve,{transform:l}),ve=ge(n,"ALLOWED_NAMESPACES",Ke,{transform:yn}),Je=ge(n,"ADD_URI_SAFE_ATTR",dn,{transform:l,base:dn}),Xe=ge(n,"ADD_DATA_URI_TAGS",Pe,{transform:l,base:Pe}),Ht=ge(n,"FORBID_CONTENTS",De,{transform:l}),Ee=ge(n,"FORBID_TAGS",Pt({}),{transform:l}),cn=ge(n,"FORBID_ATTR",Pt({}),{transform:l}),St=Lt(n,"USE_PROFILES")?n.USE_PROFILES&&typeof n.USE_PROFILES=="object"?Pt(n.USE_PROFILES):n.USE_PROFILES:!1,qe=n.ALLOW_ARIA_ATTR!==!1,We=n.ALLOW_DATA_ATTR!==!1,ne=n.ALLOW_UNKNOWN_PROTOCOLS||!1,ae=n.ALLOW_SELF_CLOSE_IN_ATTR!==!1,Yt=n.SAFE_FOR_TEMPLATES||!1,Bt=n.SAFE_FOR_XML!==!1,le=n.WHOLE_DOCUMENT||!1,Xt=n.RETURN_DOM||!1,oe=n.RETURN_DOM_FRAGMENT||!1,Jt=n.RETURN_TRUSTED_TYPE||!1,Ct=n.FORCE_BODY||!1,be=n.SANITIZE_DOM!==!1,Me=n.SANITIZE_NAMED_PROPS||!1,Ne=n.KEEP_CONTENT!==!1,Te=n.IN_PLACE||!1,Ft=_a(n.ALLOWED_URI_REGEXP)?n.ALLOWED_URI_REGEXP:Vn,Ut=typeof n.NAMESPACE=="string"?n.NAMESPACE:qt,Ze=Lt(n,"MATHML_TEXT_INTEGRATION_POINTS")&&n.MATHML_TEXT_INTEGRATION_POINTS&&typeof n.MATHML_TEXT_INTEGRATION_POINTS=="object"?Pt(n.MATHML_TEXT_INTEGRATION_POINTS):nt({},mt),t=Lt(n,"HTML_INTEGRATION_POINTS")&&n.HTML_INTEGRATION_POINTS&&typeof n.HTML_INTEGRATION_POINTS=="object"?Pt(n.HTML_INTEGRATION_POINTS):nt({},e);let d=Lt(n,"CUSTOM_ELEMENT_HANDLING")&&n.CUSTOM_ELEMENT_HANDLING&&typeof n.CUSTOM_ELEMENT_HANDLING=="object"?Pt(n.CUSTOM_ELEMENT_HANDLING):He(null);if(ht=He(null),Lt(d,"tagNameCheck")&&A(d.tagNameCheck)&&(ht.tagNameCheck=d.tagNameCheck),Lt(d,"attributeNameCheck")&&A(d.attributeNameCheck)&&(ht.attributeNameCheck=d.attributeNameCheck),Lt(d,"allowCustomizedBuiltInElements")&&typeof d.allowCustomizedBuiltInElements=="boolean"&&(ht.allowCustomizedBuiltInElements=d.allowCustomizedBuiltInElements),Rt(ht),Yt&&(We=!1),oe&&(Xt=!0),St&&(rt=nt({},Bn),pt=He(null),St.html===!0&&(nt(rt,zn),nt(pt,Hn)),St.svg===!0&&(nt(rt,wn),nt(pt,Tn),nt(pt,pn)),St.svgFilters===!0&&(nt(rt,En),nt(pt,Tn),nt(pt,pn)),St.mathMl===!0&&(nt(rt,An),nt(pt,Un),nt(pt,pn))),ee.tagCheck=null,ee.attributeCheck=null,Lt(n,"ADD_TAGS")&&(typeof n.ADD_TAGS=="function"?ee.tagCheck=n.ADD_TAGS:ye(n.ADD_TAGS)&&(rt===Re&&(rt=Pt(rt)),nt(rt,n.ADD_TAGS,l))),Lt(n,"ADD_ATTR")&&(typeof n.ADD_ATTR=="function"?ee.attributeCheck=n.ADD_ATTR:ye(n.ADD_ATTR)&&(pt===Ve&&(pt=Pt(pt)),nt(pt,n.ADD_ATTR,l))),Lt(n,"ADD_URI_SAFE_ATTR")&&ye(n.ADD_URI_SAFE_ATTR)&&nt(Je,n.ADD_URI_SAFE_ATTR,l),Lt(n,"FORBID_CONTENTS")&&ye(n.FORBID_CONTENTS)&&(Ht===De&&(Ht=Pt(Ht)),nt(Ht,n.FORBID_CONTENTS,l)),Lt(n,"ADD_FORBID_CONTENTS")&&ye(n.ADD_FORBID_CONTENTS)&&(Ht===De&&(Ht=Pt(Ht)),nt(Ht,n.ADD_FORBID_CONTENTS,l)),Ne&&(rt["#text"]=!0),le&&nt(rt,["html","head","body"]),rt.table&&(nt(rt,["tbody"]),delete Ee.tbody),n.TRUSTED_TYPES_POLICY){if(typeof n.TRUSTED_TYPES_POLICY.createHTML!="function")throw Ce('TRUSTED_TYPES_POLICY configuration option must provide a "createHTML" hook.');if(typeof n.TRUSTED_TYPES_POLICY.createScriptURL!="function")throw Ce('TRUSTED_TYPES_POLICY configuration option must provide a "createScriptURL" hook.');let w=_;_=n.TRUSTED_TYPES_POLICY;try{B=Q("")}catch($){throw _=w,$}}else n.TRUSTED_TYPES_POLICY===null?(_=void 0,B=""):(_===void 0&&(_=gt()),_&&typeof B=="string"&&(B=Q("")));It&&It(n),p=n},V=nt({},[...wn,...En,...ka]),at=nt({},[...An,...La]),et=function(n,d,w){return d.namespaceURI===qt?n==="svg":d.namespaceURI===Fe?n==="svg"&&(w==="annotation-xml"||Ze[w]):!!V[n]},vt=function(n,d,w){return d.namespaceURI===qt?n==="math":d.namespaceURI===ce?n==="math"&&t[w]:!!at[n]},Wt=function(n,d,w){return d.namespaceURI===ce&&!t[w]||d.namespaceURI===Fe&&!Ze[w]?!1:!at[n]&&(s[n]||!V[n])},ut=function(n){let d=g(n);(!d||!d.tagName)&&(d={namespaceURI:Ut,tagName:"template"});let w=an(n.tagName),$=an(d.tagName);return ve[n.namespaceURI]?n.namespaceURI===ce?et(w,d,$):n.namespaceURI===Fe?vt(w,d,$):n.namespaceURI===qt?Wt(w,d,$):!!(o==="application/xhtml+xml"&&ve[n.namespaceURI]):!1},xt=function(n){Be(i.removed,{element:n});try{g(n).removeChild(n)}catch{if(L(n),!g(n))throw Ce("a node selected for removal could not be detached from its tree and cannot be safely returned; refusing to sanitize in place")}},Ot=function(n){$t(n);let d=lt(n);if(d){let $=[];ze(d,z=>{Be($,z)}),ze($,z=>{try{L(z)}catch{}})}let w=N(n);if(w)for(let $=w.length-1;$>=0;--$){let z=w[$],P=z&&z.name;if(typeof P=="string")try{n.removeAttribute(P)}catch{}}},it=function(n,d){try{Be(i.removed,{attribute:d.getAttributeNode(n),from:d})}catch{Be(i.removed,{attribute:null,from:d})}if(d.removeAttribute(n),n==="is")if(Xt||oe)try{xt(d)}catch{}else try{d.setAttribute(n,"")}catch{}},At=function(n){let d=N(n);if(d)for(let w=d.length-1;w>=0;--w){let $=d[w],z=$&&$.name;if(!(typeof z!="string"||pt[l(z)]))try{n.removeAttribute(z)}catch{}}},$t=function(n){let d=[n];for(;d.length>0;){let w=d.pop();(q?q(w):w.nodeType)===Vt.element&&At(w);let z=lt(w);if(z)for(let P=z.length-1;P>=0;--P)d.push(z[P])}},se=function(n){if(!Bt)return;let d=[n];for(;d.length>0;){let w=d.pop(),$=q?q(w):w.nodeType;if($===Vt.processingInstruction||$===Vt.comment&&kt(Wn,w.data)){try{L(w)}catch{}continue}if($===Vt.element){let P=w,bt=l(ct?ct(w):w.nodeName);try{P.hasAttribute&&P.hasAttribute("patchsrc")&&P.removeAttribute("patchsrc"),P.hasAttribute&&P.hasAttribute("for")&&bt!=="label"&&bt!=="output"&&P.removeAttribute("for")}catch{}}let z=lt(w);if(z)for(let P=z.length-1;P>=0;--P)d.push(z[P])}},de=function(n){let d=null,w=null;if(Ct)n="<remove></remove>"+n;else{let P=Dn(n,/^[\r\n\t ]+/);w=P&&P[0]}o==="application/xhtml+xml"&&Ut===qt&&(n='<html xmlns="http://www.w3.org/1999/xhtml"><head></head><body>'+n+"</body></html>");let $=_?Q(n):n;if(Ut===qt)try{d=new k().parseFromString($,o)}catch{}if(!d||!d.documentElement){d=M.createDocument(Ut,"template",null);try{d.documentElement.innerHTML=Se?B:$}catch{}}let z=d.body||d.documentElement;return n&&w&&z.insertBefore(u.createTextNode(w),z.childNodes[0]||null),Ut===qt?Y.call(d,le?"html":"body")[0]:le?d.documentElement:z},xe=function(n){return U.call(n.ownerDocument||n,n,v.SHOW_ELEMENT|v.SHOW_COMMENT|v.SHOW_TEXT|v.SHOW_PROCESSING_INSTRUCTION|v.SHOW_CDATA_SECTION,null)},Gt=function(n){return n=en(n,Qt," "),n=en(n,me," "),n=en(n,we," "),n},x=function(n){var d;n.normalize();let w=U.call(n.ownerDocument||n,n,v.SHOW_TEXT|v.SHOW_COMMENT|v.SHOW_CDATA_SECTION|v.SHOW_PROCESSING_INSTRUCTION,null),$=w.nextNode();for(;$;)$.data=Gt($.data),$=w.nextNode();let z=(d=n.querySelectorAll)===null||d===void 0?void 0:d.call(n,"template");z&&ze(z,P=>{K(P.content)&&x(P.content)})},ot=function(n){let d=ct?ct(n):null;return typeof d!="string"||l(d)!=="form"?!1:typeof n.nodeName!="string"||typeof n.textContent!="string"||typeof n.removeChild!="function"||n.attributes!==N(n)||typeof n.removeAttribute!="function"||typeof n.setAttribute!="function"||typeof n.namespaceURI!="string"||typeof n.insertBefore!="function"||typeof n.hasChildNodes!="function"||n.nodeType!==q(n)||n.childNodes!==lt(n)},K=function(n){if(!q||typeof n!="object"||n===null)return!1;try{return q(n)===Vt.documentFragment}catch{return!1}},tt=function(n){if(!q||typeof n!="object"||n===null)return!1;try{return typeof q(n)=="number"}catch{return!1}};function st(T,n,d){T.length!==0&&ze(T,w=>{w.call(i,n,d,p)})}let Nt=function(n,d){return!!(Bt&&n.hasChildNodes()&&!tt(n.firstElementChild)&&kt(qn,n.textContent)&&kt(qn,n.innerHTML)||Bt&&n.namespaceURI===qt&&d==="style"&&tt(n.firstElementChild)||n.nodeType===Vt.processingInstruction||Bt&&n.nodeType===Vt.comment&&kt(Wn,n.data))},ue=function(n,d){if(!Ee[d]&&ke(d)&&(ht.tagNameCheck instanceof RegExp&&kt(ht.tagNameCheck,d)||ht.tagNameCheck instanceof Function&&ht.tagNameCheck(d)))return!1;if(Ne&&!Ht[d]){let w=g(n),$=lt(n);if($&&w){let z=$.length;for(let P=z-1;P>=0;--P){let bt=Te?$[P]:X($[P],!0);w.insertBefore(bt,O(n))}}}return xt(n),!0},jt=function(n,d){if(st(dt.beforeSanitizeElements,n,null),n!==d&&g(n)===null)return!0;if(ot(n))return xt(n),!0;let w=l(ct?ct(n):n.nodeName);if(st(dt.uponSanitizeElement,n,{tagName:w,allowedTags:rt}),n!==d&&g(n)===null)return!0;if(Nt(n,w))return xt(n),!0;if(Ee[w]||!(ee.tagCheck instanceof Function&&ee.tagCheck(w))&&!rt[w]){let z=ue(n,w);return z===!1&&st(dt.afterSanitizeElements,n,null),z}if((q?q(n):n.nodeType)===Vt.element&&!ut(n)||(w==="noscript"||w==="noembed"||w==="noframes")&&kt(Fa,n.innerHTML))return xt(n),!0;if(Yt&&n.nodeType===Vt.text){let z=Gt(n.textContent);n.textContent!==z&&(Be(i.removed,{element:n.cloneNode()}),n.textContent=z)}return st(dt.afterSanitizeElements,n,null),!1},_t=function(n,d,w){if(cn[d]||Bt&&d==="patchsrc"||Bt&&d==="for"&&n!=="label"&&n!=="output"||be&&(d==="id"||d==="name")&&(w in u||w in E))return!1;let $=pt[d]||ee.attributeCheck instanceof Function&&ee.attributeCheck(d,n);if(!(We&&kt(Oe,d))){if(!(qe&&kt(Ie,d))){if($){if(!Je[d]){if(!kt(Ft,en(w,J,""))){if(!((d==="src"||d==="xlink:href"||d==="href")&&n!=="script"&&Pn(w,"data:")===0&&Xe[n])){if(!(ne&&!kt(I,en(w,J,"")))){if(w)return!1}}}}}else if(!(ke(n)&&(ht.tagNameCheck instanceof RegExp&&kt(ht.tagNameCheck,n)||ht.tagNameCheck instanceof Function&&ht.tagNameCheck(n))&&(ht.attributeNameCheck instanceof RegExp&&kt(ht.attributeNameCheck,d)||ht.attributeNameCheck instanceof Function&&ht.attributeNameCheck(d,n))||d==="is"&&ht.allowCustomizedBuiltInElements&&(ht.tagNameCheck instanceof RegExp&&kt(ht.tagNameCheck,w)||ht.tagNameCheck instanceof Function&&ht.tagNameCheck(w))))return!1}}return!0},_e=nt({},["annotation-xml","color-profile","font-face","font-face-format","font-face-name","font-face-src","font-face-uri","missing-glyph"]),ke=function(n){return!_e[an(n)]&&kt(te,n)},fe=function(n,d,w,$){if(_&&typeof G=="object"&&typeof G.getAttributeType=="function"&&!w)switch(G.getAttributeType(n,d)){case"TrustedHTML":return Q($);case"TrustedScriptURL":return ft($)}return $},Qe=function(n,d,w,$){try{w?n.setAttributeNS(w,d,$):n.setAttribute(d,$),ot(n)?xt(n):Nn(i.removed)}catch{it(d,n)}},hn=function(n){st(dt.beforeSanitizeAttributes,n,null);let d=n.attributes;if(!d||ot(n))return;let w={attrName:"",attrValue:"",keepAttr:!0,allowedAttributes:pt,forceKeepAttr:void 0},$=d.length,z=l(n.nodeName);for(;$--;){let P=d[$],bt=P.name,Mt=P.namespaceURI,Kt=P.value,zt=l(bt),Zt=Kt,Dt=bt==="value"?Zt:Ea(Zt);if(w.attrName=zt,w.attrValue=Dt,w.keepAttr=!0,w.forceKeepAttr=void 0,st(dt.uponSanitizeAttribute,n,w),Dt=w.attrValue,Me&&(zt==="id"||zt==="name")&&Pn(Dt,Ae)!==0&&(it(bt,n),Dt=Ae+Dt),Bt&&kt(/((--!?|])>)|<\/(style|script|title|xmp|textarea|noscript|iframe|noembed|noframes)/i,Dt)){it(bt,n);continue}if(zt==="attributename"&&Dn(Dt,"href")){it(bt,n);continue}if(!w.forceKeepAttr){if(!w.keepAttr){it(bt,n);continue}if(!ae&&kt(ja,Dt)){it(bt,n);continue}if(Yt&&(Dt=Gt(Dt)),!_t(z,zt,Dt)){it(bt,n);continue}Dt=fe(z,zt,Mt,Dt),Dt!==Zt&&Qe(n,bt,Mt,Dt)}}st(dt.afterSanitizeAttributes,n,null)},pe=function(n){let d=null,w=xe(n);for(st(dt.beforeSanitizeShadowDOM,n,null);d=w.nextNode();)if(st(dt.uponSanitizeShadowNode,d,null),jt(d,n),hn(d),K(d.content)&&pe(d.content),(q?q(d):d.nodeType)===Vt.element){let z=S(d);K(z)&&(Le(z),pe(z))}st(dt.afterSanitizeShadowDOM,n,null)},Le=function(n){let d=[{node:n,shadow:null}];for(;d.length>0;){let w=d.pop();if(w.shadow){pe(w.shadow);continue}let $=w.node,P=(q?q($):$.nodeType)===Vt.element,bt=lt($);if(bt)for(let Mt=bt.length-1;Mt>=0;--Mt)d.push({node:bt[Mt],shadow:null});if(P){let Mt=ct?ct($):null;if(typeof Mt=="string"&&l(Mt)==="template"){let Kt=$.content;K(Kt)&&d.push({node:Kt,shadow:null})}}if(P){let Mt=S($);K(Mt)&&d.push({node:null,shadow:Mt},{node:Mt,shadow:null})}}};return i.sanitize=function(T){let n=arguments.length>1&&arguments[1]!==void 0?arguments[1]:{},d=null,w=null,$=null,z=null;if(Se=!T,Se&&(T="<!-->"),typeof T!="string"&&!tt(T)&&(T=xa(T),typeof T!="string"))throw Ce("dirty is not a string, aborting");if(!i.isSupported)return T;Ge?(rt=Ye,pt=$e):f(n),(dt.uponSanitizeElement.length>0||dt.uponSanitizeAttribute.length>0)&&(rt=Pt(rt)),dt.uponSanitizeAttribute.length>0&&(pt=Pt(pt)),i.removed=[];let P=Te&&typeof T!="string"&&tt(T);if(P){se(T);let zt=ct?ct(T):T.nodeName;if(typeof zt=="string"){let Zt=l(zt);if(!rt[Zt]||Ee[Zt])throw Ot(T),Ce("root node is forbidden and cannot be sanitized in-place")}if(ot(T))throw Ot(T),Ce("root node is clobbered and cannot be sanitized in-place");try{Le(T)}catch(Zt){throw Ot(T),Zt}}else if(tt(T))d=de("<!---->"),w=d.ownerDocument.importNode(T,!0),w.nodeType===Vt.element&&w.nodeName==="BODY"||w.nodeName==="HTML"?d=w:d.appendChild(w),Le(w);else{if(!Xt&&!Yt&&!le&&T.indexOf("<")===-1)return _&&Jt?Q(T):T;if(d=de(T),!d)return Xt?null:Jt?B:""}d&&Ct&&xt(d.firstChild);let bt=P?T:d,Mt=xe(bt);try{for(;$=Mt.nextNode();)jt($,bt),hn($),K($.content)&&pe($.content)}catch(zt){throw P&&(Ot(T),ze(i.removed,Zt=>{Zt.element&&$t(Zt.element)})),zt}if(P)return ze(i.removed,zt=>{zt.element&&$t(zt.element)}),Yt&&x(T),T;if(Xt){if(Yt&&x(d),oe)for(z=y.call(d.ownerDocument);d.firstChild;)z.appendChild(d.firstChild);else z=d;return(pt.shadowroot||pt.shadowrootmode)&&(z=Tt.call(b,z,!0)),z}let Kt=le?d.outerHTML:d.innerHTML;return le&&rt["!doctype"]&&d.ownerDocument&&d.ownerDocument.doctype&&d.ownerDocument.doctype.name&&kt(Da,d.ownerDocument.doctype.name)&&(Kt="<!DOCTYPE "+d.ownerDocument.doctype.name+`>

diff --git a/docs/css/app.css b/docs/css/app.css
@@ -172,8 +172,8 @@ textarea:focus-visible,
 
 .top {
   display: grid;
-  /* 方形狐狸标：列宽贴近 logo 实际尺寸，避免左侧空一截或图过小 */
-  grid-template-columns: clamp(56px, 6vw, 72px) minmax(0, 1fr) auto auto;
+  /* Header 用横版 wordmark（狐狸+英文）；favicon 另用方形狐狸头 */
+  grid-template-columns: clamp(112px, 12vw, 172px) minmax(0, 1fr) auto auto;
   align-items: center;
   gap: var(--space-3);
   min-height: 62px;
@@ -184,7 +184,6 @@ textarea:focus-visible,
   position: relative;
   display: flex;
   align-items: center;
-  justify-content: center;
   width: 100%;
   min-width: var(--touch);
   min-height: var(--touch);
@@ -192,12 +191,10 @@ textarea:focus-visible,
 
 .logo-wrap img {
   display: block;
-  width: auto;
-  height: auto;
-  max-width: 56px;
-  max-height: 48px;
+  width: 100%;
+  max-height: 42px;
   object-fit: contain;
-  object-position: center;
+  object-position: left center;
   pointer-events: none;
 }
 
@@ -2630,20 +2627,21 @@ body.ix-haptic-flash::after {
   }
 
   .top {
-    grid-template-columns: 48px minmax(0, 1fr);
+    grid-template-columns: 104px minmax(0, 1fr);
     gap: 6px;
     min-height: 48px;
     padding: 4px 8px;
   }
 
   .logo-wrap {
-    min-height: 44px;
+    min-height: 40px;
     width: 100%;
   }
 
   .logo-wrap img {
-    max-width: 44px;
-    max-height: 40px;
+    width: 100%;
+    max-height: 32px;
+    object-position: left center;
   }
 
   .top-mid h1 {
@@ -4017,7 +4015,7 @@ body.ix-haptic-flash::after {
 
 @media (max-width: 370px) {
   .top {
-    grid-template-columns: 44px minmax(0, 1fr);
+    grid-template-columns: 88px minmax(0, 1fr);
   }
 
   .top-mid h1 {

diff --git a/docs/index.html b/docs/index.html
@@ -1,5 +1,5 @@
 <!DOCTYPE html>
-<html lang="zh-CN" data-release="shell-v2-f6e5649b2b2f">
+<html lang="zh-CN" data-release="shell-v2-88760f5dfa41">
 <head>
   <meta charset="utf-8"/>
   <meta name="viewport" content="width=device-width, initial-scale=1, viewport-fit=cover"/>
@@ -14,8 +14,8 @@
   <link rel="icon" href="./assets/favicon-32.png" type="image/png" sizes="32x32"/>
   <link rel="apple-touch-icon" href="./assets/apple-touch-icon.png" sizes="180x180"/>
   <!-- 壳：无业务文案。内容 data/content.json · 架构 ARCHITECTURE.md -->
-  <link rel="stylesheet" href="./css/app.css?v=shell-v2-f6e5649b2b2f"/>
-  <script defer src="./js/bootstrap.js?v=shell-v2-f6e5649b2b2f"></script>
+  <link rel="stylesheet" href="./css/app.css?v=shell-v2-88760f5dfa41"/>
+  <script defer src="./js/bootstrap.js?v=shell-v2-88760f5dfa41"></script>
 </head>
 <body>
   <a class="skip-link" href="#stage">跳到正文</a>
@@ -24,7 +24,7 @@
     <div class="chrome">
       <header class="top">
         <div class="logo-wrap">
-          <img id="logo-img" src="./assets/logo.png" alt="天元"/>
+          <img id="logo-img" src="./assets/logo.png" alt="SHINE MAGE"/>
           <div class="logo-edit-hint">点此换图</div>
           <input id="logo-file" type="file" accept="image/*" hidden/>
         </div>
